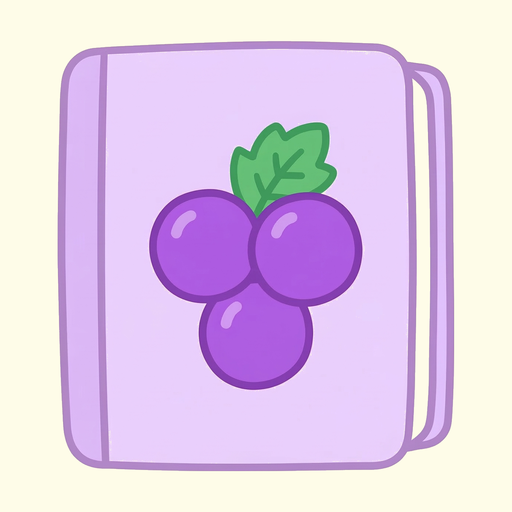
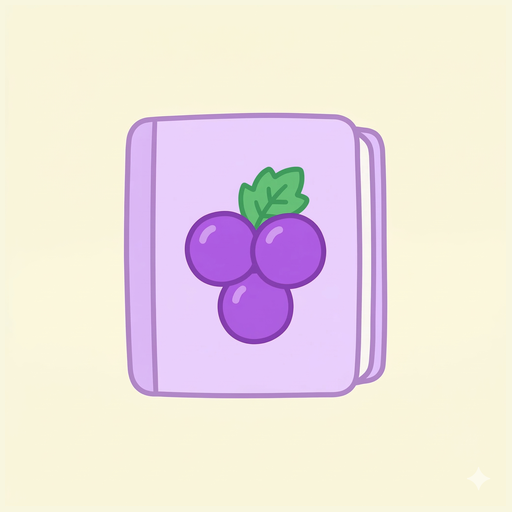
fix: PWA 아이콘 비율 조정 및 헤더 아이콘 이미지로 교체
- 포도책 크기를 일반 앱 아이콘 비율로 조정 (배경 ~10%)
- 배경색 투톤 문제 수정 (원본 배경색으로 통일)
- 헤더의 🍇 이모지를 PWA 아이콘 이미지로 교체
- PWA 캐시 버전 v10으로 업데이트

diff --git a/frontend/src/components/Layout.tsx b/frontend/src/components/Layout.tsx
@@ -52,7 +52,7 @@ export default function Layout() {
     <div className="min-h-screen bg-cream">
       {/* 모바일 전용 미니 헤더 */}
       <header className="md:hidden bg-white border-b border-warm-200 sticky top-0 z-30 h-12 flex items-center px-4 gap-3">
-        <Link to="/" className="font-bold text-grape-700">🍇 포도가계부</Link>
+        <Link to="/" className="font-bold text-grape-700 flex items-center gap-1.5"><img src="/pwa-192x192.png" alt="" className="w-6 h-6 rounded" />포도가계부</Link>
         {/* 가구 선택 (모바일 헤더) */}
         {households.length > 1 && (
           <div className="relative ml-auto">
@@ -100,7 +100,7 @@ export default function Layout() {
         <aside className="hidden md:flex md:sticky md:top-0 md:h-screen w-60 bg-cream border-r border-warm-200 p-4 flex-col">
           {/* 앱 타이틀 */}
           <div className="mb-4">
-            <Link to="/" className="text-2xl font-bold text-grape-700">🍇 포도가계부</Link>
+            <Link to="/" className="text-2xl font-bold text-grape-700 flex items-center gap-2"><img src="/pwa-192x192.png" alt="" className="w-8 h-8 rounded" />포도가계부</Link>
           </div>
 
           {/* 가구 선택 드롭다운 */}

diff --git a/frontend/vite.config.ts b/frontend/vite.config.ts
@@ -45,7 +45,7 @@ export default defineConfig({
       },
       workbox: {
         // 캐시 이름 버전 업 → 구 SW 캐시 강제 제거 (API 캐시 제거 포함)
-        cacheId: 'podo-budget-v9',
+        cacheId: 'podo-budget-v10',
         globPatterns: ['**/*.{js,css,html,ico,png,svg,woff,woff2}'],
         // 새 SW가 즉시 활성화되도록 설정 (기본: 모든 탭 닫힐 때까지 대기)
         skipWaiting: true,
